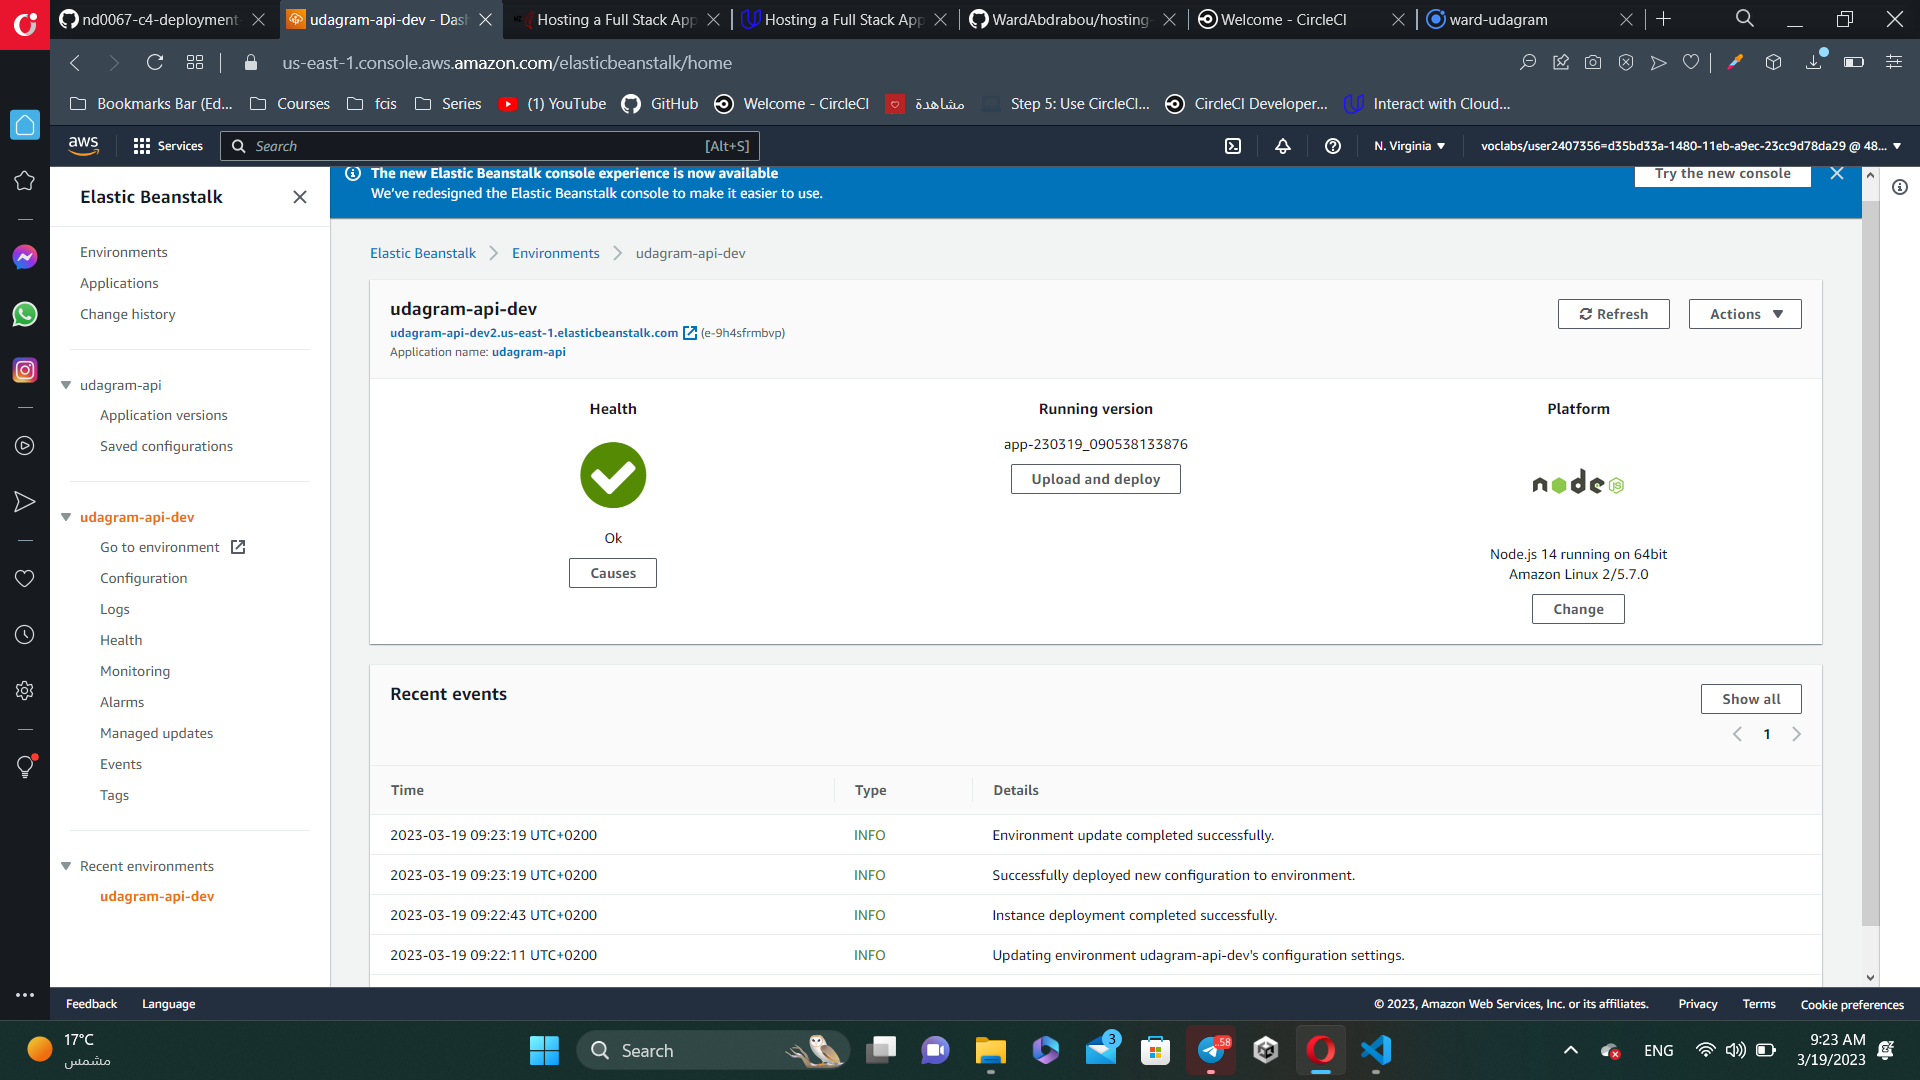
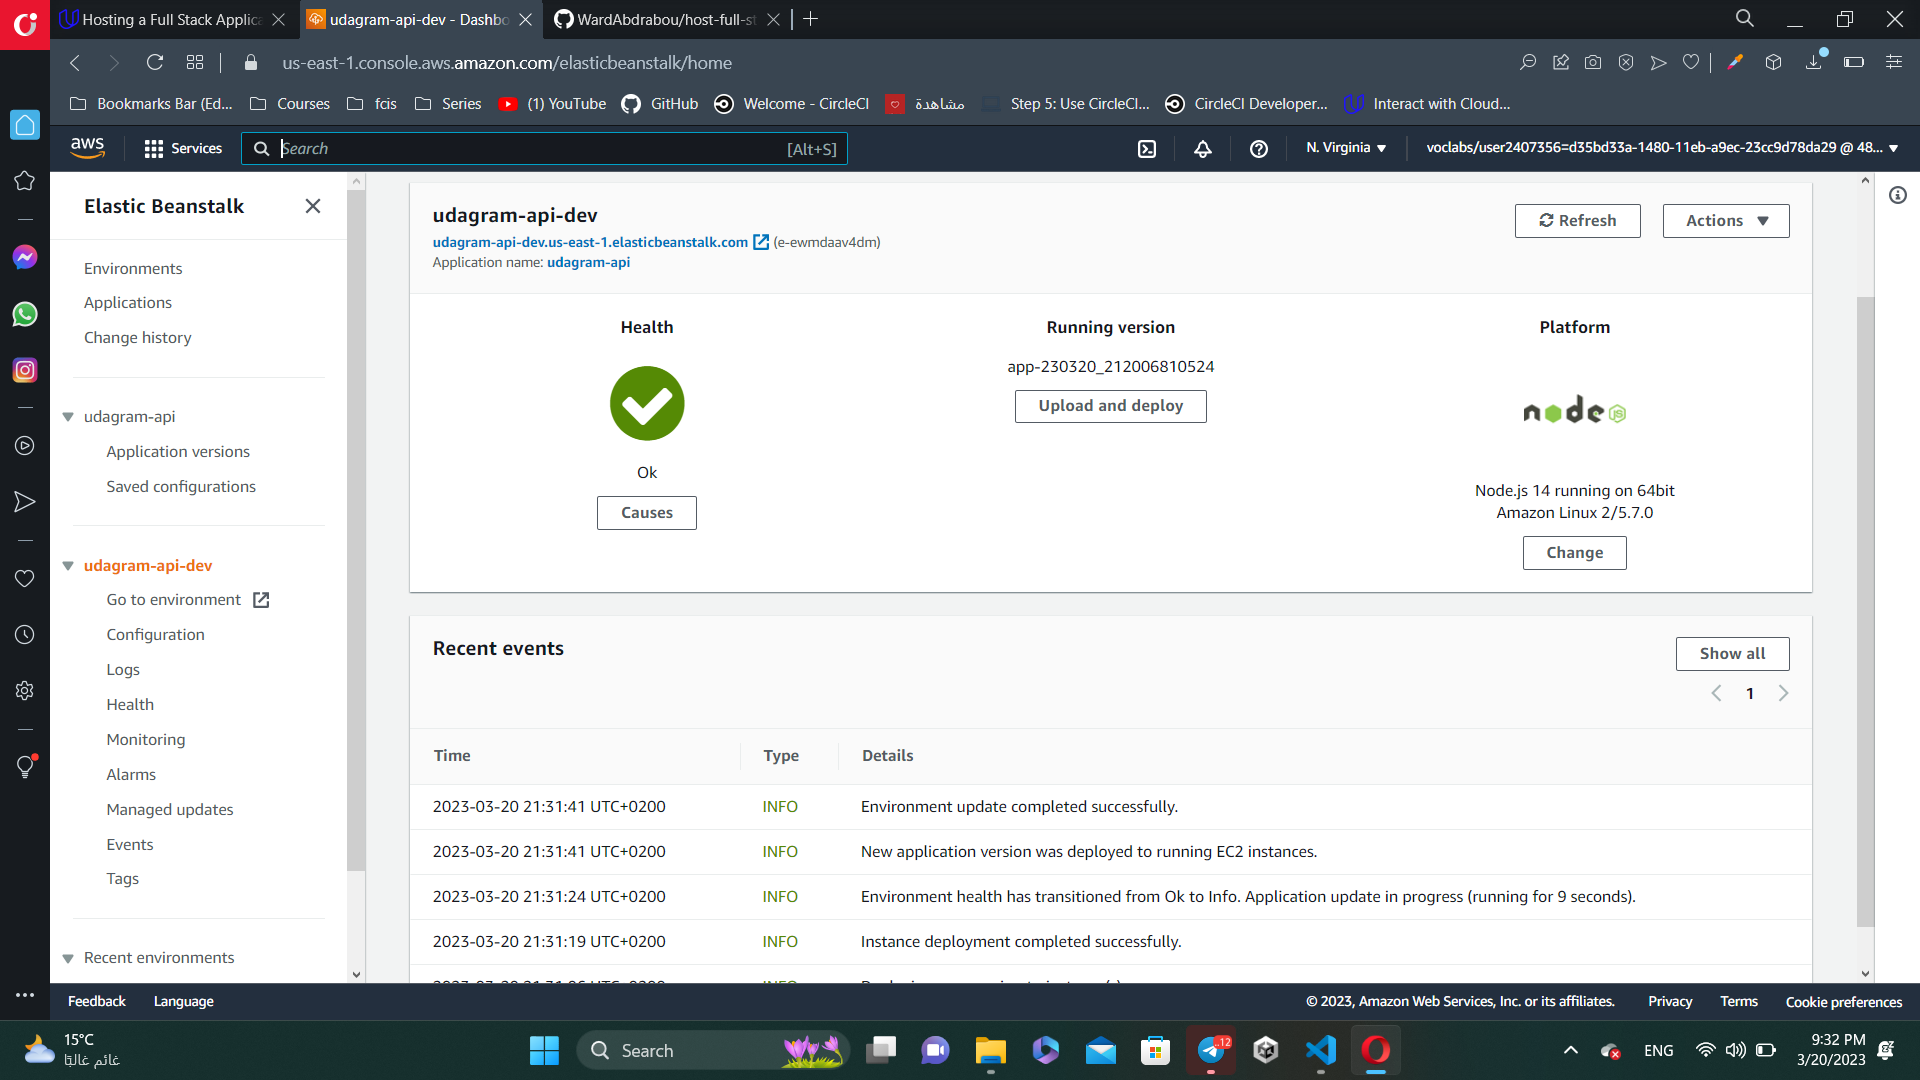
update

diff --git a/udagram/udagram-frontend/src/environments/environment.prod.ts b/udagram/udagram-frontend/src/environments/environment.prod.ts
@@ -5,7 +5,7 @@
 export const environment = {
   production: true,
   appName: "Udagram",
-  apiHost: "http://udagram-api-dev2.us-east-1.elasticbeanstalk.com/api/v0",
+  apiHost: "http://udagram-api-dev.us-east-1.elasticbeanstalk.com/api/v0",
 };
 
 /*

diff --git a/udagram/udagram-frontend/src/environments/environment.ts b/udagram/udagram-frontend/src/environments/environment.ts
@@ -5,7 +5,7 @@
 export const environment = {
   production: false,
   appName: 'Udagram',
-  apiHost: 'http://udagram-api-dev2.us-east-1.elasticbeanstalk.com/api/v0'
+  apiHost: 'http://udagram-api-dev.us-east-1.elasticbeanstalk.com/api/v0'
 };
 
 /*

diff --git a/docs/infastructure.md b/docs/infastructure.md
@@ -9,7 +9,7 @@ Elastic Beanstalk
 The application api is deployed on AWS Elastic Beanstalk service. 
 The application is build, archived and uploaded to and S3 bucket from where Elastic Beanstalk extracts and runs the application on an endpoint.
 
-EB --> http://udagram-api-dev2.us-east-1.elasticbeanstalk.com
+EB --> http://udagram-api-dev.us-east-1.elasticbeanstalk.com
 
 S3 Bucket
 The frontend application is deployed using AWS S3 Bucket.
